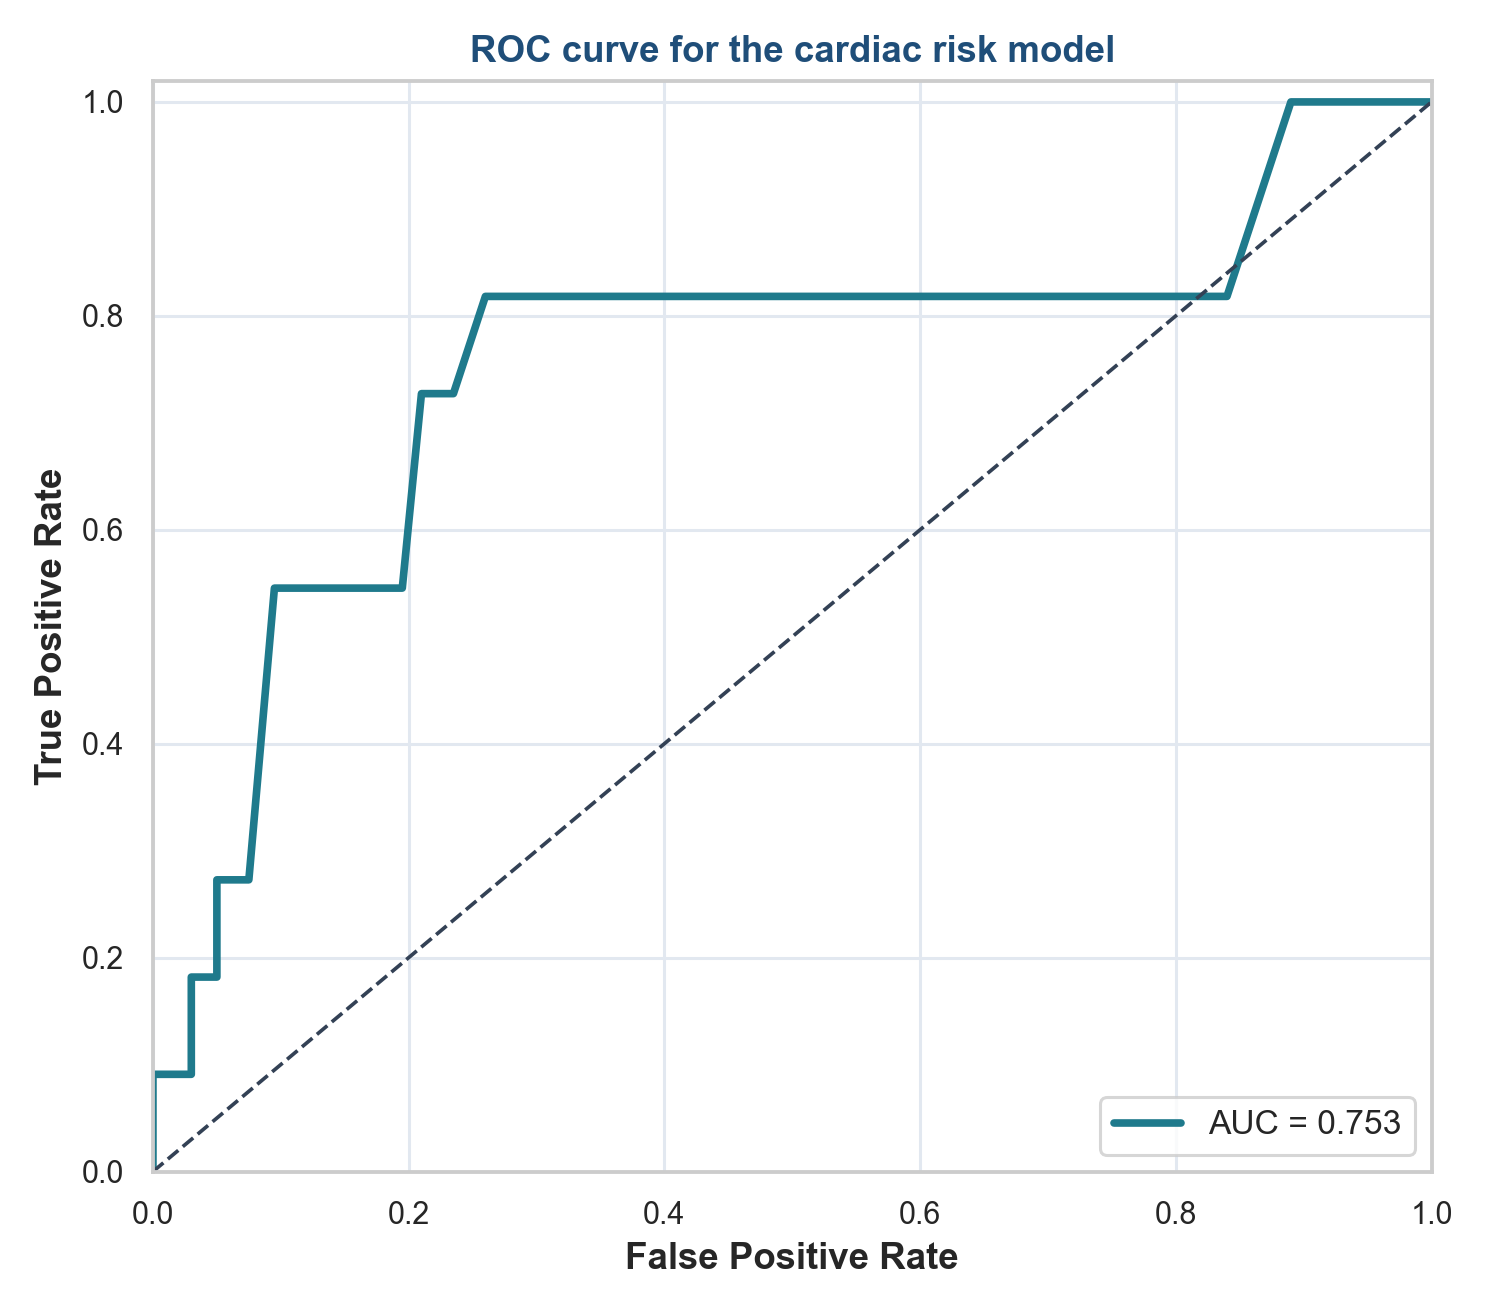
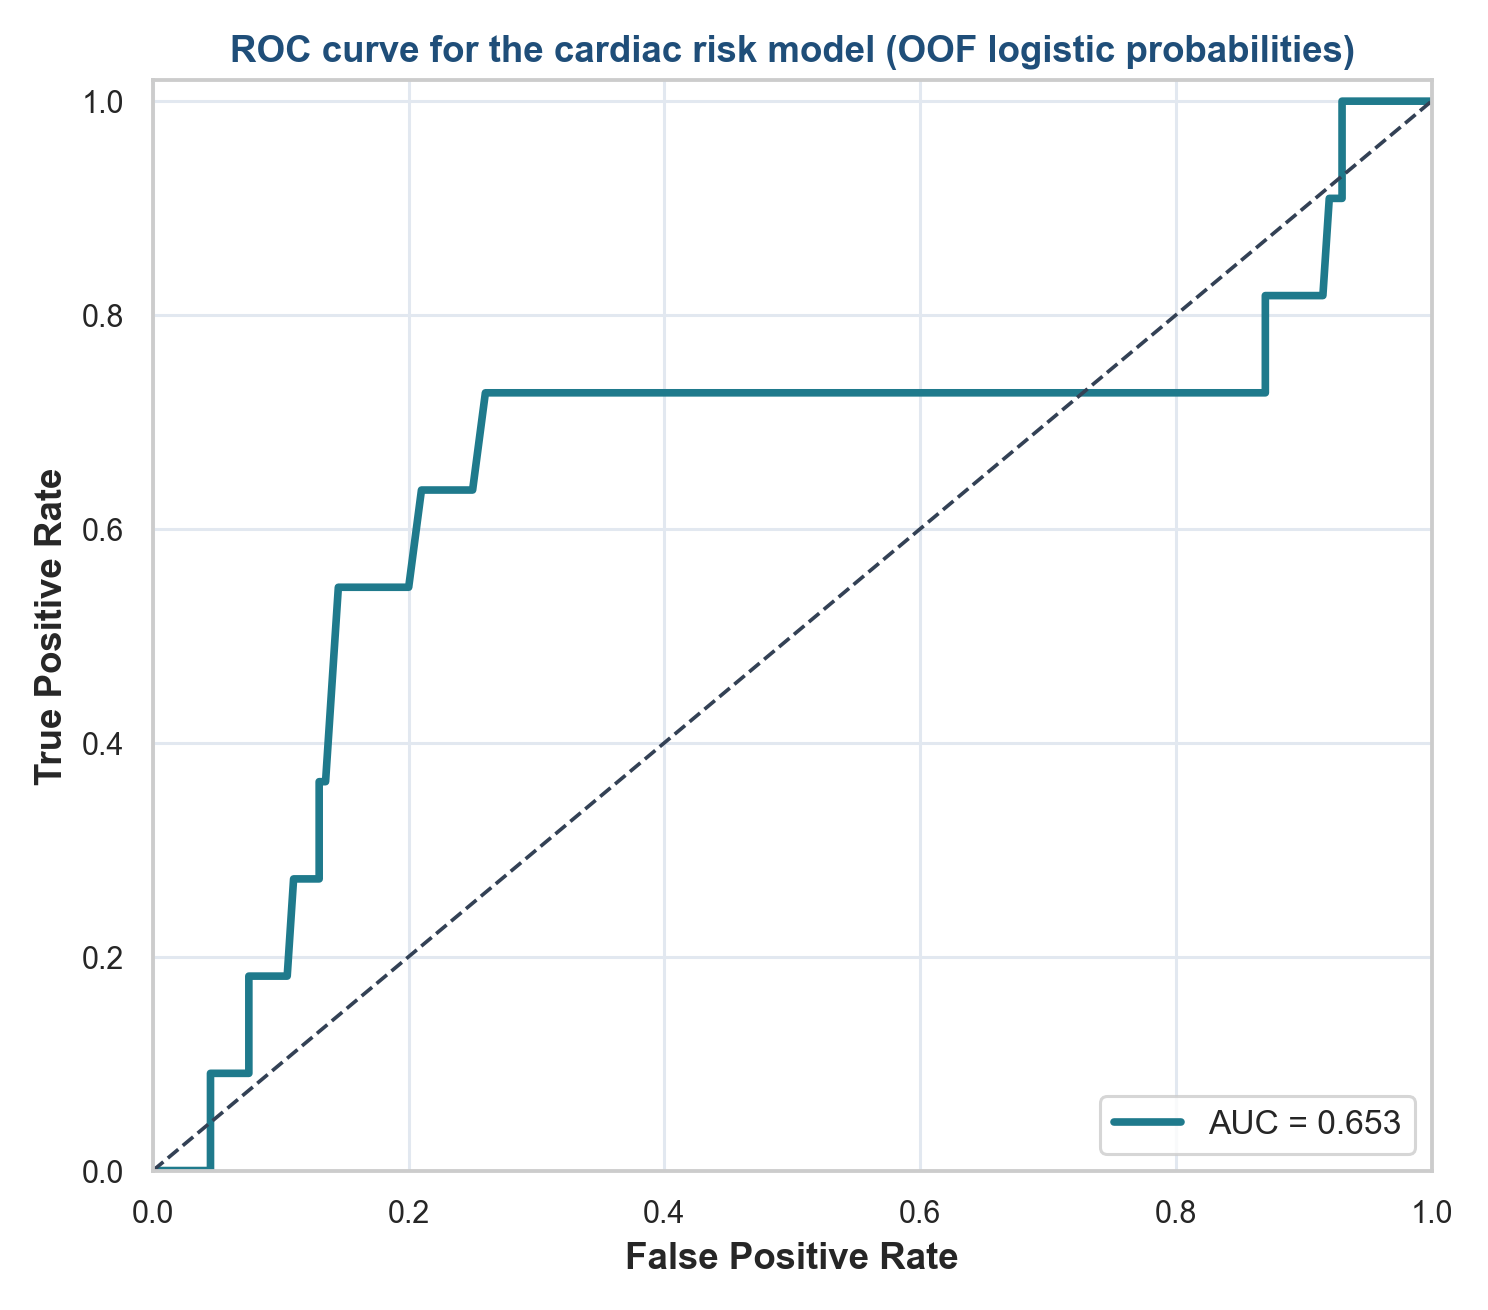
Finalize poster figure curation and analysis figure cleanup

diff --git a/06_analysis/build_analysis_outputs.py b/06_analysis/build_analysis_outputs.py
@@ -58,7 +58,7 @@ FILE_NAMES = {
     "table_cv_predictions": "model_predictions_cv.csv",
     "table_cv_metrics": "model_cv_metrics.csv",
     "table_modeling_n": "modeling_sample_size.csv",
-    "table_p_values_bh": "p_values_bh.csv",
+    "table_p_values_bh": "p_values_bh_python_core.csv",
     "summary": "results_summary.md",
     "metadata": "results_metadata.json",
 }
@@ -258,12 +258,12 @@ def analysis_a_b_c(df: pd.DataFrame) -> pd.DataFrame:
     u_stat, p_mw = mannwhitneyu(g0, g1, alternative="two-sided")
     rows.append({"analysis": "A_mann_whitney_acb_vs_cardiac", "statistic": u_stat, "p_value": p_mw})
 
-    groups = [g.dropna().values for _, g in df.groupby("age_group")["total_acb_with_dph"]]
+    groups = [g.dropna().values for _, g in df.groupby("age_group")["total_acb_codrugs_only"]]
     k_stat, p_kw = kruskal(*groups)
     rows.append({"analysis": "B_kruskal_acb_vs_age_group", "statistic": k_stat, "p_value": p_kw})
 
     # Post-hoc Dunn test is used after Kruskal-Wallis for pairwise age-group comparisons.
-    dunn_df = sp.posthoc_dunn(df, val_col="total_acb_with_dph", group_col="age_group", p_adjust="bonferroni")
+    dunn_df = sp.posthoc_dunn(df, val_col="total_acb_codrugs_only", group_col="age_group", p_adjust="bonferroni")
     dunn_df.to_csv(TAB_DIR / FILE_NAMES["table_posthoc"])
 
     fig, ax = plt.subplots(figsize=(7.5, 5.2))
@@ -271,7 +271,7 @@ def analysis_a_b_c(df: pd.DataFrame) -> pd.DataFrame:
     sns.boxplot(
         data=df,
         x="age_group",
-        y="total_acb_with_dph",
+        y="total_acb_codrugs_only",
         order=order,
         hue="age_group",
         legend=False,
@@ -282,7 +282,7 @@ def analysis_a_b_c(df: pd.DataFrame) -> pd.DataFrame:
     sns.stripplot(
         data=df,
         x="age_group",
-        y="total_acb_with_dph",
+        y="total_acb_codrugs_only",
         order=order,
         color=PALETTE["slate"],
         alpha=0.35,
@@ -290,7 +290,7 @@ def analysis_a_b_c(df: pd.DataFrame) -> pd.DataFrame:
         jitter=0.2,
         ax=ax,
     )
-    ymax = np.nanmax(df["total_acb_with_dph"]) if df["total_acb_with_dph"].notna().any() else 1
+    ymax = np.nanmax(df["total_acb_codrugs_only"]) if df["total_acb_codrugs_only"].notna().any() else 1
     ax.set_ylim(top=ymax * 1.30 if ymax > 0 else 1.5)
     ax.text(1, ymax * 1.05 if ymax > 0 else 0.5, f"Kruskal p={p_kw:.3g} {p_stars(p_kw)}", ha="center", color=PALETTE["red"], fontweight="bold")
 
@@ -308,9 +308,9 @@ def analysis_a_b_c(df: pd.DataFrame) -> pd.DataFrame:
                 ax.text((xa + xb) / 2, pair_y * 1.015, p_stars(float(pval)), ha="center", va="bottom", color=PALETTE["red"], fontsize=11)
                 pair_y *= 1.06
 
-    ax.set_title("Total ACB burden across age groups", color=PALETTE["blue"], fontweight="bold")
+    ax.set_title("Co-medication ACB burden across age groups", color=PALETTE["blue"], fontweight="bold")
     ax.set_xlabel(human_label("age_group"))
-    ax.set_ylabel(human_label("total_acb_with_dph"))
+    ax.set_ylabel(human_label("total_acb_codrugs_only"))
     fig.tight_layout()
     save_figure(fig, FIG_DIR / FILE_NAMES["figure_age_group"], dpi=220)
     plt.close(fig)
@@ -450,7 +450,6 @@ def run_cv_models(df: pd.DataFrame) -> tuple[pd.DataFrame, pd.DataFrame, dict[st
     ax.set_title("Calibration curves (5-bin OOF probabilities)", color=PALETTE["blue"], fontweight="bold")
     fig.tight_layout()
     save_figure(fig, FIG_DIR / "calibration_curve_cv.png", dpi=220)
-    save_figure(fig, FIG_DIR / "calibration_curve.png", dpi=300)
     plt.close(fig)
 
     # This model is strictly for SHAP interpretability. All AUC metrics come from CV above.
@@ -458,23 +457,32 @@ def run_cv_models(df: pd.DataFrame) -> tuple[pd.DataFrame, pd.DataFrame, dict[st
         rf_model.fit(X_df, y)
         explainer = shap.TreeExplainer(rf_model)
         shap_values = explainer.shap_values(X_df)
+        shap_for_plot = None
+
+        # Explicit class handling avoids plotting the wrong class in binary outputs.
         if isinstance(shap_values, list) and len(shap_values) > 1:
             shap_for_plot = shap_values[1]
         elif isinstance(shap_values, np.ndarray) and shap_values.ndim == 3:
             # Newer SHAP versions may return (n_samples, n_features, n_classes).
             shap_for_plot = shap_values[:, :, 1]
+        elif isinstance(shap_values, np.ndarray) and shap_values.ndim == 2:
+            if getattr(rf_model, "n_classes_", None) == 2 and shap_values.shape[1] == X_df.shape[1]:
+                # For binary TreeExplainer, 2D output corresponds to the positive class.
+                shap_for_plot = shap_values
+            else:
+                print("Unexpected 2D SHAP output shape; skipping SHAP beeswarm export.")
         else:
-            shap_for_plot = shap_values
+            print("Unexpected SHAP output format; skipping SHAP beeswarm export.")
 
-        # Display publication-ready feature names on SHAP outputs.
-        X_display = X_df.rename(columns={c: human_label(c) for c in X_df.columns})
-        plt.figure(figsize=(11, 6.5))
-        shap.summary_plot(shap_for_plot, X_display, show=False, plot_size=(11, 6.5))
-        fig_shap = plt.gcf()
-        fig_shap.subplots_adjust(left=0.28, right=0.98, top=0.93, bottom=0.18)
-        save_figure(fig_shap, FIG_DIR / "shap_beeswarm.png", dpi=300)
-        save_figure(fig_shap, FIG_DIR / "shap_beeswarm_final.png", dpi=300)
-        plt.close()
+        if shap_for_plot is not None:
+            # Display publication-ready feature names on SHAP outputs.
+            X_display = X_df.rename(columns={c: human_label(c) for c in X_df.columns})
+            plt.figure(figsize=(11, 6.5))
+            shap.summary_plot(shap_for_plot, X_display, show=False, plot_size=(11, 6.5))
+            fig_shap = plt.gcf()
+            fig_shap.subplots_adjust(left=0.28, right=0.98, top=0.93, bottom=0.18)
+            save_figure(fig_shap, FIG_DIR / "shap_beeswarm.png", dpi=300)
+            plt.close()
     else:
         print("SHAP is not installed; skipping SHAP beeswarm export.")
 
@@ -482,7 +490,7 @@ def run_cv_models(df: pd.DataFrame) -> tuple[pd.DataFrame, pd.DataFrame, dict[st
 
 
 def save_bh_table(tests: pd.DataFrame) -> pd.DataFrame:
-    """Create a BH-adjusted p-value table for Python-native tests (R adds DeLong later)."""
+    """Create a BH table for Python core tests only; use R BH table as study-level primary."""
 
     def bh_adjust(p_values: pd.Series) -> pd.Series:
         vals = p_values.astype(float).values
@@ -508,7 +516,7 @@ def save_bh_table(tests: pd.DataFrame) -> pd.DataFrame:
     return p_tbl
 
 
-def logistic_and_forest(df: pd.DataFrame) -> pd.DataFrame:
+def logistic_and_forest(df: pd.DataFrame, cv_pred_df: pd.DataFrame | None = None) -> pd.DataFrame:
     """Run logistic analysis, save model outputs, and render forest/ROC plots."""
     fit_rows = []
 
@@ -538,9 +546,19 @@ def logistic_and_forest(df: pd.DataFrame) -> pd.DataFrame:
     save_figure(fig, FIG_DIR / FILE_NAMES["figure_forest"], dpi=220)
     plt.close(fig)
 
-    roc_df = pred_df.dropna(subset=["pred_prob"]).copy()
-    fpr, tpr, _ = roc_curve(roc_df["cardiac_any"], roc_df["pred_prob"])
-    auc = fit_full["auc"]
+    # Prefer strict out-of-fold probabilities for ROC plotting to avoid in-sample leakage.
+    if cv_pred_df is not None and {"cardiac_any", "lr_prob"}.issubset(cv_pred_df.columns):
+        roc_df = cv_pred_df.dropna(subset=["cardiac_any", "lr_prob"]).copy()
+        score_col = "lr_prob"
+        roc_title = "ROC curve for the cardiac risk model (OOF logistic probabilities)"
+        auc = roc_auc_score(roc_df["cardiac_any"], roc_df[score_col])
+    else:
+        roc_df = pred_df.dropna(subset=["cardiac_any", "pred_prob"]).copy()
+        score_col = "pred_prob"
+        roc_title = "ROC curve for the cardiac risk model (in-sample fallback)"
+        auc = fit_full["auc"]
+
+    fpr, tpr, _ = roc_curve(roc_df["cardiac_any"], roc_df[score_col])
     fig, ax = plt.subplots(figsize=(6.8, 6.0))
     ax.plot(fpr, tpr, color=PALETTE["teal"], lw=2.5, label=f"AUC = {auc:.3f}")
     ax.plot([0, 1], [0, 1], color=PALETTE["slate"], ls="--", lw=1.2)
@@ -548,7 +566,7 @@ def logistic_and_forest(df: pd.DataFrame) -> pd.DataFrame:
     ax.set_ylim(0, 1.02)
     ax.set_xlabel("False Positive Rate")
     ax.set_ylabel("True Positive Rate")
-    ax.set_title("ROC curve for the cardiac risk model", color=PALETTE["blue"], fontweight="bold")
+    ax.set_title(roc_title, color=PALETTE["blue"], fontweight="bold")
     ax.legend(loc="lower right", frameon=True)
     fig.tight_layout()
     save_figure(fig, FIG_DIR / FILE_NAMES["figure_roc"], dpi=220)
@@ -664,8 +682,8 @@ if __name__ == "__main__":
     build_descriptive_table(df)
     norm = normality_checks(df)
     tests = analysis_a_b_c(df)
-    fit = logistic_and_forest(df)
-    _, cv_metrics, modeling_n = run_cv_models(df)
+    cv_pred_df, cv_metrics, modeling_n = run_cv_models(df)
+    fit = logistic_and_forest(df, cv_pred_df=cv_pred_df)
     save_bh_table(tests)
 
     # 3) Write summaries and composite dashboard for reporting.

diff --git a/06_analysis/build_poster_figures.py b/06_analysis/build_poster_figures.py
@@ -42,6 +42,11 @@ COLORS = {
 
 
 KEEP_FIGURES = [
+    "cohort_flow.png",
+    "acb_vs_severity.png",
+    "roc_dual.png",
+    "calibration_curve_cv.png",
+    "sex_stratified_acb_violin.png",
     "drug_cooccurrence_network.png",
     "shap_beeswarm.png",
     "cardiac_risk_roc.png",
@@ -275,6 +280,11 @@ def write_manifest(rows: list[tuple[str, str, str, str]]) -> None:
     keep_list = DOCS_DIR / "selected_files.txt"
     keep_lines = [
         "Final poster figures (unannotated):",
+        "- final/cohort_flow.png",
+        "- final/acb_vs_severity.png",
+        "- final/roc_dual.png",
+        "- final/calibration_curve_cv.png",
+        "- final/sex_stratified_acb_violin.png",
         "- final/drug_cooccurrence_network.png",
         "- final/shap_beeswarm.png",
         "- final/cardiac_risk_roc.png",
@@ -329,14 +339,6 @@ def main() -> None:
 
     # Stage 2: copy finalized figure assets from analysis outputs.
     rows = copy_curated_figures()
-
-    rows.extend([
-        ("final/drug_cooccurrence_network.png", "analysis_core", "copied from figures", "Unannotated original"),
-        ("final/shap_beeswarm.png", "analysis_core", "copied from figures", "Unannotated original"),
-        ("final/cardiac_risk_roc.png", "analysis_core", "copied from figures", "Unannotated original"),
-        ("final/logistic_odds_ratios.png", "analysis_core", "copied from figures", "Unannotated original"),
-        ("final/acb_by_age_group.png", "analysis_core", "copied from figures", "Unannotated original"),
-    ])
 
     blueprint = DOCS_DIR / "layout_blueprint.png"
 

diff --git a/06_analysis/figures/README.md b/06_analysis/figures/README.md
@@ -2,6 +2,11 @@
 
 All generated analysis figures.
 
+This folder is organized into:
+
+- core and diagnostic figures in the root,
+- a curated final deliverables subset in `final/`.
+
 ## Produced by
 
 - `06_analysis/build_analysis_outputs.py`
@@ -9,7 +14,20 @@ All generated analysis figures.
 
 ## Key figure groups
 
-- Core analysis:
+
+- Final deliverables (`final/`):
+	- `cohort_flow.png`
+	- `acb_by_age_group.png`
+	- `acb_vs_severity.png`
+	- `logistic_odds_ratios.png`
+	- `cardiac_risk_roc.png`
+	- `roc_dual.png`
+	- `calibration_curve_cv.png`
+	- `shap_beeswarm.png`
+	- `drug_cooccurrence_network.png`
+	- `sex_stratified_acb_violin.png`
+
+- Core analysis (root):
 	- `cohort_flow.png`
 	- `acb_by_age_group.png`
 	- `acb_vs_severity.png`
@@ -17,19 +35,20 @@ All generated analysis figures.
 	- `cardiac_risk_roc.png`
 	- `overview_dashboard.png`
 
-- Model explainability and comparison:
+
+- Model explainability and comparison (root):
 	- `shap_beeswarm.png`
-	- `shap_beeswarm_final.png`
 	- `calibration_curve_cv.png`
-	- `calibration_curve.png`
 	- `roc_dual.png`
 
-- Network and subgroup plots:
+
+- Network and subgroup plots (root):
 	- `drug_cooccurrence_network.png`
 	- `acb_by_cardiac_outcome.png`
 	- `sex_stratified_acb_violin.png`
 
-- Distribution diagnostics:
+
+- Distribution diagnostics (root):
 	- `age_histogram.png`, `age_qq_plot.png`
 	- `acb_with_dph_histogram.png`, `acb_with_dph_qq_plot.png`
 	- `acb_codrugs_only_histogram.png`, `acb_codrugs_only_qq_plot.png`

diff --git a/07_poster/poster_figures/final/README.md b/07_poster/poster_figures/final/README.md
@@ -2,6 +2,19 @@
 
 Final poster figure set.
 
+## Current key deliverables
+
+- `cohort_flow.png`
+- `acb_by_age_group.png`
+- `acb_vs_severity.png`
+- `logistic_odds_ratios.png`
+- `cardiac_risk_roc.png`
+- `roc_dual.png`
+- `calibration_curve_cv.png`
+- `shap_beeswarm.png`
+- `drug_cooccurrence_network.png`
+- `sex_stratified_acb_violin.png`
+
 ## Rules
 
 - Exactly one copy per core figure.

diff --git a/06_analysis/results_summary.md b/06_analysis/results_summary.md
@@ -14,7 +14,7 @@
 
 ## Core tests
 - A_mann_whitney_acb_vs_cardiac: statistic=1098, p=0.991 ns
-- B_kruskal_acb_vs_age_group: statistic=8.034, p=0.018 *
+- B_kruskal_acb_vs_age_group: statistic=5.193, p=0.0745 ns
 - C_spearman_acb_vs_severity: statistic=0.1373, p=0.0463 *
 
 ## Logistic model fit
